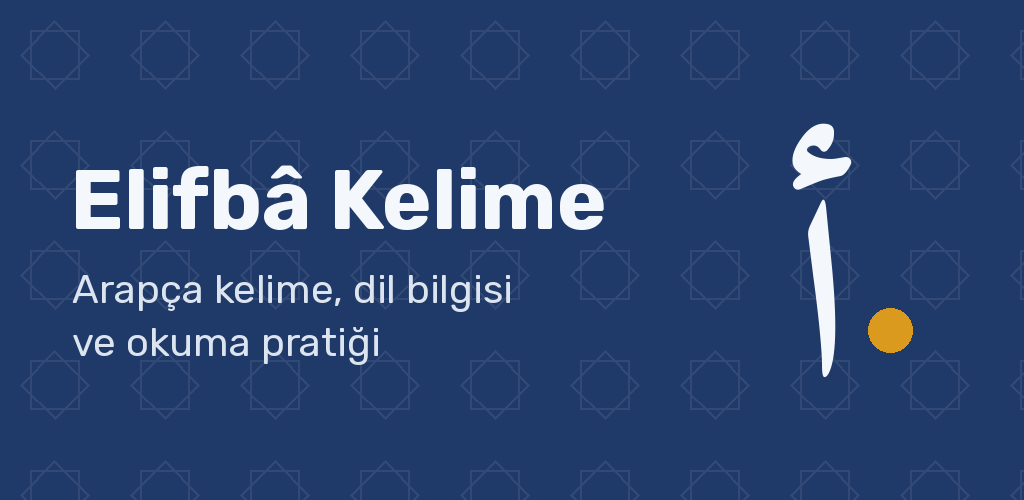
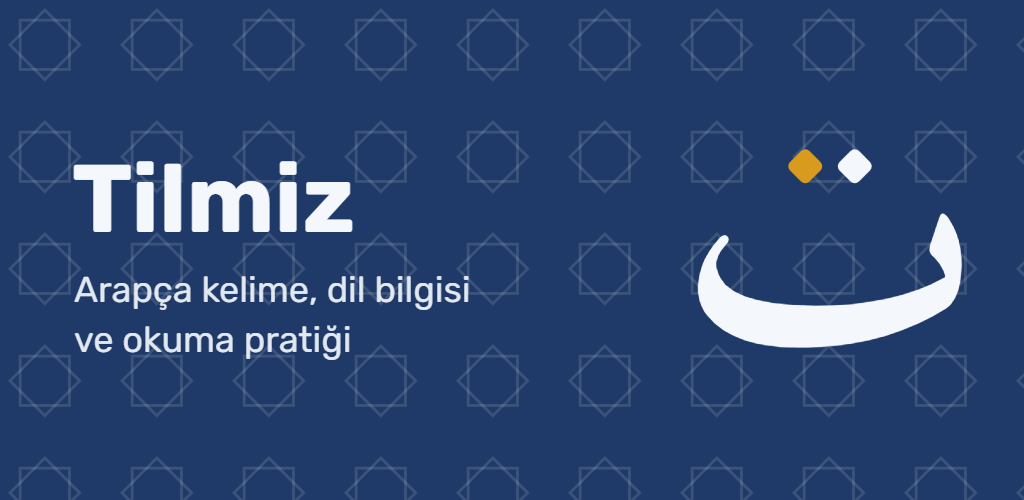
Ad: Tilmiz / Mihenk Labs; yeni simge ve mağaza görselleri
- app.config.json'dan gelen yer tutucularla ad tek yerden yönetilir.
- ت harfli yeni simgeler ve öne çıkan görsel (tools/assets ile üretildi).
- dist/root: mihenklabs.github.io kök sitesi ve assetlinks.json.
- GitHub Pages yayın iş akışı, güncel Play rehberi ve mağaza metinleri.

diff --git a/src/app.js b/src/app.js
@@ -251,7 +251,7 @@ function header() {
   const c = counts(); ensureDay();
   const limit = S.set.daily + S.day.bonus, st = streakNow(), started = Object.keys(S.p).length;
   return `
-  <div class="top"><div class="brand"><span class="ar" lang="ar">ك</span>Elifbâ Kelime</div><div class="streak">${st ? "🔥 " + st + " gün üst üste" : "Bugün ilk çalışmanı yap"}</div></div>
+  <div class="top"><div class="brand"><span class="ar" lang="ar">ت</span>{{APP_NAME}}</div><div class="streak">${st ? "🔥 " + st + " gün üst üste" : "Bugün ilk çalışmanı yap"}</div></div>
   <div class="stats">
     <a class="stat" href="#kelimelerim" data-list="known"><b>${fmt(c.known)}</b><span>iyi biliyorum</span></a>
     <a class="stat" href="#kelimelerim" data-list="learn"><b>${fmt(c.learn)}</b><span>öğreniyorum</span></a>
@@ -451,14 +451,15 @@ function settings() {
   <div class="set"><h3>Kelime havuzu</h3><p>${fmt(N)} kelime, sık kullanılandan seyreğe sıralı. Bütün kelimelerin Türkçesi elle yazıldı ya da tek tek kontrol edildi. Günlük dilde nadir geçenler “(seyrek kullanılır)” diye işaretli. Yine de hatalı gördüğün bir kelimeyi bildirebilir ya da Kelimelerim’de anlamını kendin düzeltebilirsin.</p>
     ${nflag ? `<p style="margin:10px 0 6px;color:var(--ink)">Bildirdiğin kelimeler (${nflag})</p><div class="flist">${Object.keys(S.flag).slice(0, 100).map(k => `<div class="frow"><span class="ar" lang="ar">${W[k][0]}</span><span class="ft">${esc(W[k][2])}</span>${fedit === +k ? `<input id="fIn" value="${esc(W[k][2])}" aria-label="Doğru anlam"><button class="btn primary sm" data-fs="${k}">Kaydet</button>` : `<button class="btn sm" data-fe="${k}">Düzelt</button><button class="btn sm" data-fu="${k}">Geri al</button>`}</div>`).join("")}</div>
     <button class="btn" id="unflag" style="margin-top:8px">Hepsini geri al</button>` : ""}</div>
-  ${dgs && tipItems.length ? `<div class="set support"><h3>Destek ol</h3><p>Elifbâ reklamsız ve ücretsiz. Beğendiysen küçük bir destekle geliştirilmesine katkıda bulunabilirsin. Destekler yalnızca teşekkür amaçlıdır, uygulamada hiçbir şeyi değiştirmez.${S.tips ? ` <b>Desteğin için teşekkürler! 🌙</b>` : ""}</p>
+  ${dgs && tipItems.length ? `<div class="set support"><h3>Destek ol</h3><p>{{APP_NAME}} reklamsız ve ücretsiz. Beğendiysen küçük bir destekle geliştirilmesine katkıda bulunabilirsin. Destekler yalnızca teşekkür amaçlıdır, uygulamada hiçbir şeyi değiştirmez.${S.tips ? ` <b>Desteğin için teşekkürler! 🌙</b>` : ""}</p>
     ${gate ? `<div class="gate"><p><b>Ebeveyn onayı:</b> Ödemeye geçmeden önce bir yetişkin şu soruyu cevaplasın.</p><p class="gq">${gate.a} × ${gate.b} = ?</p><div class="row"><input id="gIn" inputmode="numeric" aria-label="Cevap"><button class="btn primary sm" id="gOk">Onayla</button><button class="btn sm" id="gNo">Vazgeç</button></div></div>` : `<div class="tips">${tipItems.map(d => `<button class="btn tip" data-tip="${esc(d.itemId)}"><span>${esc(TIP_LABEL[d.itemId] || d.title)}</span><b>${esc(fmtPrice(d.price))}</b></button>`).join("")}</div>`}</div>` : ""}
   <div class="set"><h3>Yedekle ve geri yükle</h3><p>İlerlemenin bir kopyasını al. Telefon değiştirdiğinde ya da uygulamayı yeniden yüklediğinde bu yedekle kaldığın yerden devam edersin.</p>
     <div class="row"><button class="btn" id="bkSave">${IN_CLAUDE ? "Yedeği kopyala" : "Yedek dosyası indir"}</button><button class="btn" id="bkLoad">Yedekten yükle</button></div>
     <input type="file" id="bkFile" accept=".json,application/json,text/plain" hidden>
     <details class="bkp"><summary>Metin olarak yapıştırıp yükle</summary><textarea id="bkText" rows="3" placeholder="Yedek metnini buraya yapıştır" aria-label="Yedek metni"></textarea><div class="row"><button class="btn sm" id="bkApply">Yapıştırılanı yükle</button></div></details></div>
   <details class="set about"><summary><h3 style="display:inline">Hakkında, kaynaklar ve lisanslar</h3></summary>
-    <p><b>Elifbâ Kelime</b> Arapça kelime, dil bilgisi ve okuma çalışmaları için hazırlandı. Verilerin tamamı bu cihazda saklanır${IN_CLAUDE ? " (ve Claude hesabında eşitlenir)" : ""}; hiçbir kişisel veri toplanmaz.</p>
+    <p><b>{{APP_NAME}}</b> Arapça kelime, dil bilgisi ve okuma çalışmaları için hazırlandı. Verilerin tamamı bu cihazda saklanır${IN_CLAUDE ? " (ve Claude hesabında eşitlenir)" : ""}; hiçbir kişisel veri toplanmaz.</p>
+    <p>Geliştirici: {{DEV_NAME}}. Kaynak kodu (GPL-3.0-or-later): <a href="https://github.com/{{GITHUB_USER}}/{{REPO}}" target="_blank" rel="noopener">github.com/{{GITHUB_USER}}/{{REPO}}</a></p>
     <p>Kelime, çekim ve anlam verileri: Vikisözlük (Wiktionary) katkıcıları, kaikki.org üzerinden; lisans: CC BY-SA 4.0. Türkçe anlamlar bu veriler temel alınarak elle düzenlendi ve aynı lisansla paylaşılır.</p>
     <p>Kur’an metni, kök ve lemma bilgileri: Quranic Arabic Corpus (Kais Dukes, <a href="https://corpus.quran.com" target="_blank" rel="noopener">corpus.quran.com</a>) morfoloji verisi v0.4 ve furqan.co düzeltmeleri; lisans: GNU GPL.</p>
     <p>Kelime sıklığı: FrequencyWords (Hermit Dave), OpenSubtitles verisinden; lisans: CC BY-SA 4.0.</p>
@@ -478,7 +479,7 @@ function settings() {
   $("#bkSave").onclick = () => {
     const txt = JSON.stringify({ app: "elifba-kelime", v: 1, date: dayStr(), data: S });
     if (!IN_CLAUDE) {
-      try { const a = document.createElement("a"); a.href = URL.createObjectURL(new Blob([txt], { type: "application/json" })); a.download = "elifba-yedek-" + dayStr() + ".json"; document.body.appendChild(a); a.click(); setTimeout(() => { URL.revokeObjectURL(a.href); a.remove(); }, 1000); toast("Yedek dosyası indirildi."); return; } catch (e) {}
+      try { const a = document.createElement("a"); a.href = URL.createObjectURL(new Blob([txt], { type: "application/json" })); a.download = "tilmiz-yedek-" + dayStr() + ".json"; document.body.appendChild(a); a.click(); setTimeout(() => { URL.revokeObjectURL(a.href); a.remove(); }, 1000); toast("Yedek dosyası indirildi."); return; } catch (e) {}
     }
     const done = () => toast("Yedek panoya kopyalandı. Bir nota yapıştırıp sakla.");
     const fallback = () => { const t = $("#bkText"); t.value = txt; t.closest("details").open = true; t.select(); toast("Yedek metni aşağıda; kopyalayıp sakla."); };
@@ -487,7 +488,7 @@ function settings() {
   const restore = txt => {
     let o; try { o = JSON.parse(txt); } catch (e) { toast("Yedek okunamadı."); return; }
     const d = o && o.data ? o.data : o;
-    if (!d || typeof d !== "object" || typeof d.p !== "object") { toast("Bu bir Elifbâ yedeği değil."); return; }
+    if (!d || typeof d !== "object" || typeof d.p !== "object") { toast("Bu bir {{APP_NAME}} yedeği değil."); return; }
     if (!confirm("Yedek, bu cihazdaki ilerlemenin yerine geçecek. Devam edilsin mi?")) return;
     S = normalize(d); applyCM(); save(); cur = null; recent = []; hist = [];
     toast("Yedek yüklendi: " + fmt(Object.keys(S.p).length) + " kelime."); settings();

diff --git a/tools/assets/generator.html b/tools/assets/generator.html
@@ -1,0 +1,101 @@
+<!DOCTYPE html>
+<html lang="tr"><head><meta charset="utf-8"><title>Görsel üretici</title>
+<style>
+@font-face { font-family: "Amiri"; font-weight: 400; src: url(fonts/amiri-arabic-400-normal.woff2) format("woff2"); unicode-range: U+0600-06FF, U+FB50-FDFF, U+FE70-FEFC; }
+@font-face { font-family: "Amiri"; font-weight: 700; src: url(fonts/amiri-arabic-700-normal.woff2) format("woff2"); unicode-range: U+0600-06FF, U+FB50-FDFF, U+FE70-FEFC; }
+@font-face { font-family: "Rubik"; font-weight: 400; src: url(fonts/rubik-latin-400-normal.woff2) format("woff2"); }
+@font-face { font-family: "Rubik"; font-weight: 400; src: url(fonts/rubik-latin-ext-400-normal.woff2) format("woff2"); unicode-range: U+0100-024F; }
+@font-face { font-family: "Rubik"; font-weight: 700; src: url(fonts/rubik-latin-700-normal.woff2) format("woff2"); }
+@font-face { font-family: "Rubik"; font-weight: 700; src: url(fonts/rubik-latin-ext-700-normal.woff2) format("woff2"); unicode-range: U+0100-024F; }
+body { font-family: system-ui; background: #ccc; margin: 16px; }
+canvas { margin: 8px; vertical-align: top; box-shadow: 0 1px 4px #0004; }
+</style></head>
+<body>
+<button id="save">Hepsini kaydet</button> <span id="st"></span>
+<div id="out"></div>
+<script>
+const C = { bg: "#1F3A68", ink: "#F4F7FB", saffron: "#D89B1E", line: "rgba(244,247,251,.13)" };
+let cfg;
+
+// 8 köşeli yıldız deseni (iç içe iki kare)
+function pattern(ctx, w, h, step) {
+  ctx.save(); ctx.strokeStyle = C.line; ctx.lineWidth = Math.max(1.5, step / 40);
+  for (let y = step / 2 - step * 0.1; y < h + step; y += step) for (let x = step / 2 - step * 0.1; x < w + step; x += step) {
+    const s = step * 0.22;
+    ctx.strokeRect(x - s, y - s, 2 * s, 2 * s);
+    ctx.save(); ctx.translate(x, y); ctx.rotate(Math.PI / 4); ctx.strokeRect(-s, -s, 2 * s, 2 * s); ctx.restore();
+  }
+  ctx.restore();
+}
+function roundRect(ctx, x, y, w, h, r) { ctx.beginPath(); ctx.moveTo(x + r, y); ctx.arcTo(x + w, y, x + w, y + h, r); ctx.arcTo(x + w, y + h, x, y + h, r); ctx.arcTo(x, y + h, x, y, r); ctx.arcTo(x, y, x + w, y, r); ctx.closePath(); }
+
+// Noktasız ت gövdesi (ٮ) + iki nokta: biri beyaz, biri safran
+function teh(ctx, cx, cy, size) {
+  ctx.save();
+  ctx.fillStyle = C.ink; ctx.font = `700 ${size}px Amiri`; ctx.textAlign = "center"; ctx.textBaseline = "alphabetic";
+  const m = ctx.measureText("ٮ");
+  const top = m.actualBoundingBoxAscent, bot = m.actualBoundingBoxDescent;
+  // gövdeyi dikeyde ortala (noktalarla birlikte)
+  const dotR = size * 0.052, gap = size * 0.07;
+  const totalH = top + bot + gap + dotR * 2;
+  const base = cy + totalH / 2 - bot;
+  ctx.fillText("ٮ", cx, base);
+  const dy = base - top - gap - dotR;
+  const dx = size * 0.075;
+  // nesih noktası gibi hafif yuvarlatılmış eşkenar dörtgen
+  const dot = (x, col) => {
+    ctx.fillStyle = col; ctx.save(); ctx.translate(x, dy); ctx.rotate(Math.PI / 4);
+    roundRect(ctx, -dotR * 0.8, -dotR * 0.8, dotR * 1.6, dotR * 1.6, dotR * 0.35); ctx.fill(); ctx.restore();
+  };
+  dot(cx + dx, C.ink); dot(cx - dx, C.saffron);
+  ctx.restore();
+}
+
+function icon(size, { rounded, safe }) {
+  const cv = document.createElement("canvas"); cv.width = cv.height = size;
+  const ctx = cv.getContext("2d");
+  if (rounded) { roundRect(ctx, 0, 0, size, size, size * 0.19); ctx.clip(); }
+  ctx.fillStyle = C.bg; ctx.fillRect(0, 0, size, size);
+  pattern(ctx, size, size, size / 4);
+  teh(ctx, size / 2, size / 2, size * (safe ? 0.62 : 0.8));
+  return cv;
+}
+
+function feature() {
+  const w = 1024, h = 500, cv = document.createElement("canvas"); cv.width = w; cv.height = h;
+  const ctx = cv.getContext("2d");
+  ctx.fillStyle = C.bg; ctx.fillRect(0, 0, w, h);
+  pattern(ctx, w, h, 112);
+  ctx.fillStyle = C.ink; ctx.textBaseline = "alphabetic";
+  ctx.font = "700 96px Rubik"; ctx.fillText(cfg.name, 72, 232);
+  ctx.font = "400 36px Rubik"; ctx.globalAlpha = .92;
+  ctx.fillText("Arapça kelime, dil bilgisi", 74, 302);
+  ctx.fillText("ve okuma pratiği", 74, 352);
+  ctx.globalAlpha = 1;
+  teh(ctx, 830, 250, 330);
+  return cv;
+}
+
+async function make() {
+  cfg = await (await fetch("app.config.json")).json();
+  await Promise.all(["700 100px Amiri", "700 40px Rubik", "400 40px Rubik"].map(f => document.fonts.load(f, "ٮ Tilmiz ğış")));
+  const list = {
+    "icon-512": icon(512, { rounded: true }),
+    "icon-192": icon(192, { rounded: true }),
+    "maskable-512": icon(512, { safe: true }),
+    "play-icon-512": icon(512, {}),
+    "feature-graphic": feature(),
+  };
+  const out = document.getElementById("out"); out.innerHTML = "";
+  for (const [k, cv] of Object.entries(list)) { cv.title = k; out.appendChild(cv); }
+  return list;
+}
+async function saveAll(list) {
+  for (const [k, cv] of Object.entries(list)) await fetch("save?name=" + k, { method: "POST", body: cv.toDataURL("image/png") });
+  document.getElementById("st").textContent = "kaydedildi";
+}
+let L;
+make().then(l => { L = l; if (location.search.includes("auto=1")) saveAll(L); });
+document.getElementById("save").onclick = () => saveAll(L);
+</script>
+</body></html>

diff --git a/src/pwa/privacy.html b/src/pwa/privacy.html
@@ -1,10 +1,10 @@
 <!DOCTYPE html><html lang="tr"><head><meta charset="utf-8"><meta name="viewport" content="width=device-width, initial-scale=1">
-<title>Elifbâ Kelime – Gizlilik Politikası</title>
+<title>{{APP_NAME}} – Gizlilik Politikası</title>
 <style>body{font-family:system-ui,-apple-system,"Segoe UI",sans-serif;max-width:680px;margin:0 auto;padding:24px 18px;line-height:1.6;color:#18212B}h1{font-size:1.5rem}h2{font-size:1.1rem;margin-top:24px}</style></head>
-<body><h1>Elifbâ Kelime – Gizlilik Politikası</h1>
+<body><h1>{{APP_NAME}} – Gizlilik Politikası</h1>
 <p>Son güncelleme: 17 Kasım 2026</p>
 <h2>Toplanan veriler</h2>
-<p>Elifbâ Kelime hiçbir kişisel veri toplamaz, saklamaz ya da üçüncü taraflarla paylaşmaz. Hesap açma, giriş yapma veya kişisel bilgi girme gerekmez.</p>
+<p>{{APP_NAME}} hiçbir kişisel veri toplamaz, saklamaz ya da üçüncü taraflarla paylaşmaz. Hesap açma, giriş yapma veya kişisel bilgi girme gerekmez.</p>
 <h2>Cihazda saklanan veriler ve yedekler</h2>
 <p>Öğrenme ilerlemen (çalıştığın kelimeler, ayarların, istatistiklerin) yalnızca kendi cihazında, tarayıcı depolama alanında saklanır. Bu veriler bize ya da başka bir sunucuya gönderilmez. Uygulamayı sildiğinde ya da uygulama verilerini temizlediğinde bu veriler silinir. “Yedek al” özelliğiyle oluşturduğun yedek dosyası yalnızca senin cihazına kaydedilir.</p>
 <h2>Ödemeler</h2>
@@ -12,7 +12,7 @@
 <h2>Sesli okuma ve yazı tipleri</h2>
 <p>Telaffuz, cihazının kendi metin okuma motoruyla yapılır. Yazı tipleri uygulamanın içinde gelir; uygulama açılırken üçüncü taraf sunuculara istek gönderilmez.</p>
 <h2>Çocuklar</h2>
-<p>Elifbâ Kelime 7 yaş ve üzeri kullanıcılar için uygundur. Uygulama çocuklardan veya herhangi bir kullanıcıdan kişisel veri toplamaz, reklam göstermez ve üçüncü taraf takip ya da reklam yazılımı içermez. Çocuklara uygun olmayan kelimeler uygulamada gösterilmez.</p>
+<p>{{APP_NAME}} 7 yaş ve üzeri kullanıcılar için uygundur. Uygulama çocuklardan veya herhangi bir kullanıcıdan kişisel veri toplamaz, reklam göstermez ve üçüncü taraf takip ya da reklam yazılımı içermez. Çocuklara uygun olmayan kelimeler uygulamada gösterilmez.</p>
 <p>İsteğe bağlı destek paketleri satın alınmadan önce bir yetişkinin çözmesi gereken bir onay sorusu (ebeveyn onayı) gösterilir. Ödemeler Google Play üzerinden yapılır ve Google Play’in aile ve ebeveyn denetimi ayarlarına tabidir.</p>
 <h2>İletişim</h2>
 <p>Sorular için: [E-POSTA ADRESİNİ BURAYA YAZ]</p>

diff --git a/src/index.html b/src/index.html
@@ -3,7 +3,7 @@
 <head>
 <meta charset="utf-8">
 <meta name="viewport" content="width=device-width, initial-scale=1, viewport-fit=cover">
-<title>Elifbâ Kelime – Arapça kelime öğren</title>
+<title>{{APP_NAME}} – Arapça kelime öğren</title>
 <link rel="preconnect" href="https://fonts.googleapis.com">
 <link rel="preconnect" href="https://fonts.gstatic.com" crossorigin>
 <link href="https://fonts.googleapis.com/css2?family=Amiri:wght@400;700&family=Rubik:wght@400;500;700&display=swap" rel="stylesheet">

diff --git a/docs/REHBER-PlayStore.md b/docs/REHBER-PlayStore.md
@@ -1,65 +1,64 @@
-# Elifbâ Kelime'yi Google Play'e yükleme rehberi
+# Tilmiz'i Google Play'e yükleme rehberi
 
-Bu paket uygulamanın Play Store sürümünü içerir. Uygulama bir web uygulaması (PWA) olarak barındırılır, Android'e "Trusted Web Activity" (TWA) olarak paketlenir. Destek paketleri Google Play Billing ile çalışır.
+Uygulama bir web uygulaması (PWA) olarak GitHub Pages'te barındırılır ve Android'e "Trusted Web Activity" (TWA) olarak paketlenir. Destek paketleri Google Play Billing ile çalışır.
 
-## Paketin içeriği
-- `site/` → Barındırılacak dosyalar: `index.html` (uygulama), `LICENSE` (GPLv3), `README.md`, `manifest.webmanifest`, `sw.js` (çevrimdışı çalışma), `icons/`, `privacy.html` (gizlilik politikası), `.well-known/assetlinks.json` (doldurulacak şablon).
-- `store/` → Mağaza görselleri: 512×512 uygulama simgesi ve 1024×500 öne çıkan görsel.
+Adlar (`app.config.json`): uygulama **Tilmiz**, geliştirici **Mihenk Labs**, GitHub kullanıcı adı **mihenklabs**, paket kimliği **io.github.mihenklabs.tilmiz** (paket kimliği sonradan değiştirilemez).
 
-## 1. Siteyi yayınla (GitHub Pages, ücretsiz)
-TWA'nın çalışması için `assetlinks.json` dosyası alan adının **kök dizininde** olmalı. Bu yüzden siteyi kendi kök alan adına koy:
-1. github.com'da ücretsiz hesap aç.
-2. Adı tam olarak `KULLANICIADIN.github.io` olan yeni bir **public** depo oluştur.
-3. `site/` klasörünün **içindekileri** (`.well-known` ve `.nojekyll` dahil) deponun kök dizinine yükle.
-4. Depo → Settings → Pages → Source: "Deploy from a branch", Branch: `main` / root → Kaydet.
-5. Birkaç dakika sonra `https://KULLANICIADIN.github.io` adresinde uygulamayı açıp dene.
-6. `privacy.html` içindeki `[E-POSTA ADRESİNİ BURAYA YAZ]` kısmını kendi e-postanla değiştir.
+## Derleme çıktıları (`npm run build`)
+- `dist/site/` → uygulama: `https://mihenklabs.github.io/tilmiz/`
+- `dist/root/` → geliştirici kök sitesi: `https://mihenklabs.github.io/` (tanıtım sayfası + `.well-known/assetlinks.json`). TWA doğrulaması için `assetlinks.json` alan adının **kökünde** olmalı; ileride başka uygulamalar da aynı dosyaya eklenir.
+- `store/` → 512×512 Play simgesi ve 1024×500 öne çıkan görsel (`tools/assets/` ile yeniden üretilebilir).
 
-(Alternatif: Netlify veya Cloudflare Pages da olur; yine site alan adının kökünde durmalı.)
+## 1. GitHub
+1. github.com'da **mihenklabs** kullanıcı adıyla hesap aç (ad müsaitken hemen al).
+2. İki **public** depo:
+   - `tilmiz`: bu proje (kaynak kod). Settings → Pages → Source: **GitHub Actions**. `.github/workflows/pages.yml` her `main` gönderiminde testleri çalıştırıp `dist/site`'ı yayınlar.
+   - `mihenklabs.github.io`: `dist/root/` içeriği (`.nojekyll` ve `.well-known` dahil). Settings → Pages → Branch: `main` / root.
+3. Birkaç dakika sonra `https://mihenklabs.github.io/tilmiz/` adresinde uygulamayı aç ve dene.
 
-## 2. Android paketini oluştur (PWABuilder)
-1. pwabuilder.com'a git, site adresini yaz, "Start" de.
-2. "Package for stores" → **Android** → "Generate Package" → "Options".
-3. Ayarlar:
-   - **Package ID**: ör. `io.github.kullaniciadi.elifba` (sonradan değiştirilemez).
-   - **App name**: Elifbâ Kelime, **Short name**: Elifbâ.
-   - **Play Billing**: **Açık** (destek paketleri için şart).
-   - **Signing key**: "Create new" (anahtarı PWABuilder üretir).
-4. İndir. Zip içinde `.aab` dosyası, imza anahtarı (`signing.keystore`), şifreleri içeren bir not ve `assetlinks.json` gelir.
-5. **İmza anahtarını ve şifreleri güvenli bir yerde sakla.** Kaybolursa uygulamayı güncelleyemezsin.
+## 2. Android paketi (PWABuilder)
+1. pwabuilder.com → adres: `https://mihenklabs.github.io/tilmiz/` → Start.
+2. Package for stores → **Android** → Options:
+   - **Package ID**: `io.github.mihenklabs.tilmiz`
+   - **App name**: Tilmiz, **Short name**: Tilmiz
+   - **Play Billing**: Açık (destek paketleri için şart)
+   - **Signing key**: Create new
+3. İndir: `.aab`, imza anahtarı (`signing.keystore`), şifre notu ve `assetlinks.json` gelir.
+4. **İmza anahtarını ve şifreleri depoya koyma**; güvenli bir yerde (ör. parola yöneticisi + şifreli yedek) sakla. Kaybolursa uygulama güncellenemez. (`.gitignore` `*.keystore`, `signing*` dosyalarını zaten dışarıda tutar.)
 
-## 3. assetlinks.json'u güncelle
-PWABuilder'ın verdiği `assetlinks.json` içeriğini sitedeki `.well-known/assetlinks.json` dosyasının yerine koy. Play Console'da uygulama oluşturduktan sonra **Kurulum → Uygulama imzalama** sayfasındaki "Uygulama imzalama anahtarı sertifikası" SHA-256 parmak izini de aynı dosyadaki listeye ekle. Bu yapılmazsa uygulama üstte adres çubuğuyla açılır.
+## 3. assetlinks.json
+`src/pwa/.well-known/assetlinks.json` içindeki iki parmak izi yerini doldur: PWABuilder'ın verdiği SHA-256 ve Play Console → Kurulum → Uygulama imzalama → "Uygulama imzalama anahtarı sertifikası" SHA-256. Sonra `npm run build` ve `dist/root/` içeriğini `mihenklabs.github.io` deposuna gönder. Bu yapılmazsa uygulama üstte adres çubuğuyla açılır.
 
 ## 4. Google Play Console
-1. play.google.com/console → geliştirici hesabı aç (tek seferlik 25 USD, kimlik doğrulaması istenir). Kişisel hesaplarda, uygulamayı yayınlamadan önce kapalı testte belirli sayıda testçiyle bir süre test etme şartı olabilir; Console'da güncel şartı kontrol et.
-2. "Uygulama oluştur": ad Elifbâ Kelime, varsayılan dil Türkçe, Uygulama, Ücretsiz.
-3. **Mağaza girişi**: kısa ve tam açıklama, `store/play-icon-512.png`, `store/feature-graphic-1024x500.png`, telefondan en az 2 ekran görüntüsü.
-4. **Uygulama içeriği** formları:
-   - Gizlilik politikası URL'si: `https://KULLANICIADIN.github.io/privacy.html`
+1. play.google.com/console → geliştirici hesabı (tek seferlik 25 USD, kimlik doğrulama). Geliştirici adı: **Mihenk Labs**.
+2. Uygulama oluştur: ad **Tilmiz – Arapça öğren**, varsayılan dil Türkçe, Uygulama, Ücretsiz.
+3. **Mağaza girişi**: kısa ve tam açıklama (`docs/magaza-metinleri.md`), `store/play-icon-512.png`, `store/feature-graphic-1024x500.png`, telefondan en az 2 ekran görüntüsü.
+4. **Uygulama içeriği**:
+   - Gizlilik politikası URL'si: `https://mihenklabs.github.io/tilmiz/privacy.html`
    - Reklam: Yok.
    - Veri güvenliği: Veri toplanmıyor, paylaşılmıyor (ödeme Google tarafından işlenir).
-   - Hedef kitle ve içerik: yaş grupları olarak **6–8, 9–12, 13–15, 16–17 ve 18+** seç (7+ için en yakın seçim). Çocukları kapsadığı için uygulama **Aileler Politikası**'na tabi olur. Hazırlananlar: reklam ve takip yazılımı yok, veri toplanmıyor, çocuklara uygun olmayan kelimeler gizli, satın almalardan önce ebeveyn onayı sorusu var, gizlilik politikasında çocuklar bölümü var.
-   - "Uygulamanız çocukların ilgisini çekebilir mi?" gibi sorularda dürüstçe "Evet" de.
-   - İçerik derecelendirmesi anketi: Eğitim uygulaması, şiddet vb. yok.
-5. **Para kazanma → Ürünler → Uygulama içi ürünler** (önce bir test sürümü yüklemen gerekebilir):
-   - Ürün kimliği `kahve_30` → ad "Geliştiriciye bir kahve ısmarla", fiyat 30 TL → Etkinleştir.
-   - Ürün kimliği `destek_100` → ad "Projeye destek ol", fiyat 100 TL → Etkinleştir.
-   - Ürün kimliği `destek_250` → ad "Cömert destekçi ol", fiyat 250 TL → Etkinleştir.
-   - Kimlikler bire bir böyle olmalı; uygulama bu kimlikleri arar.
-6. Ödeme profili oluştur (Para kazanma kurulumu), banka hesabını ekle.
+   - Hedef kitle: **6–8, 9–12, 13–15, 16–17 ve 18+** → Aileler Politikası. Hazır olanlar: reklam/takip yazılımı yok, veri toplanmıyor, uygunsuz kelimeler gizli, satın almadan önce ebeveyn onayı sorusu, gizlilik politikasında çocuklar bölümü, yazı tipleri uygulama içinde (üçüncü taraf isteği yok).
+   - "Uygulamanız çocukların ilgisini çekebilir mi?" → dürüstçe "Evet".
+   - İçerik derecelendirmesi: Eğitim; şiddet vb. yok.
+5. **Para kazanma → Uygulama içi ürünler** (önce bir test sürümü yüklemek gerekebilir):
+   - `kahve_30` → "Geliştiriciye bir kahve ısmarla", 30 TL
+   - `destek_100` → "Projeye destek ol", 100 TL
+   - `destek_250` → "Cömert destekçi ol", 250 TL
+   - Kimlikler bire bir böyle olmalı.
+6. Ödeme profili ve banka hesabı.
 
 ## 5. Test ve yayın
-0. **Kapalı test şartı:** Yeni kişisel hesaplarda yayından önce en az **12 testçinin 14 gün kesintisiz** katıldığı bir kapalı test gerekir. Testçilerin uygulamayı gerçekten kullanması gerekir.
-1. **Test → Dahili test** kanalına `.aab` dosyasını yükle, kendini testçi ekle, bağlantıdan uygulamayı yükle. Ardından aynı dosyayla **Kapalı test** kanalını aç ve 12 testçiyi e-posta listesiyle ekle.
-2. **Kurulum → Lisans testi** bölümüne kendi Gmail adresini ekle: test satın almaları ücretsiz yapılır.
-3. Uygulamada Ayarlar → "Destek ol" kartı görünmeli. Bir paket alıp "Teşekkürler" mesajını gör.
-4. Her şey çalışınca sürümü **Üretim** kanalına taşı ve incelemeye gönder.
+0. **Kapalı test şartı:** Yeni kişisel hesaplarda en az **12 testçi, 14 gün kesintisiz** kapalı test.
+1. Dahili test kanalına `.aab` yükle, kendini ekle; sonra aynı dosyayla kapalı testi aç, 12 testçiyi ekle.
+2. Kurulum → Lisans testi: kendi Gmail adresin → test satın almaları ücretsiz.
+3. Uygulamada Ayarlar → "Destek ol" kartı görünmeli; bir paket alıp "Teşekkürler" mesajını gör.
+4. Her şey çalışınca Üretim kanalına taşı ve incelemeye gönder.
 
 ## Bilmen gerekenler
-- Play sürümünde ilerleme yalnızca o telefonda saklanır; Claude'daki sürümle eşitlenmez.
-- Telaffuz telefonun Arapça sesiyle yapılır (Claude sesi yalnızca claude.ai'de).
-- Uygulamayı güncellemek için `site/index.html` dosyasını değiştirip yeniden yüklemen yeterli; çoğu güncelleme için yeni `.aab` gerekmez. `sw.js` içindeki `elifba-v1` sürüm adını artırırsan telefonlar yeni sürümü daha hızlı alır.
-- GitHub deposunu herkese açık tut: `LICENSE` (GPLv3) ve `README.md` dosyaları depoda kalsın; GPL kaynak kodun erişilebilir olmasını ister.
-- Vergi: Google'dan gelen kazanç için Türkiye'de mobil uygulama geliştiriciliği istisnası (GVK mükerrer 20/B) var; bunun için ayrı bir banka hesabı gerekiyor. Başlamadan önce bir mali müşavire danış (memursan özellikle).
-- Lisanslar: Kelime verisi Vikisözlük'ten (CC BY-SA 4.0), Kur'an metni ve kök bilgisi Quranic Arabic Corpus'tan (GNU GPL), sıklık listesi FrequencyWords'ten (CC BY-SA 4.0). Atıflar uygulamada Ayarlar → "Hakkında, kaynaklar ve lisanslar" bölümünde. GPL ve CC BY-SA, verilerin aynı lisansla paylaşılmasını isteyebilir; ticari kullanım veya lisans konusunda emin olmak için bir uzmana danışmanı öneririm.
+- Güncelleme: `main`'e gönderdiğinde site yeniden yayınlanır; çoğu güncelleme için yeni `.aab` gerekmez. Service worker sürümü derlemede otomatik değişir; telefonlar yeni sürümü bir sonraki açılışta alır.
+- Play sürümünde ilerleme yalnızca o telefonda saklanır (yedek dosyasıyla taşınabilir); claude.ai sürümüyle eşitlenmez.
+- Telaffuz telefonun Arapça sesiyle yapılır.
+- GPL kaynak kodun erişilebilir olmasını ister: `tilmiz` deposu public kalsın.
+- Vergi: GVK mükerrer 20/B istisnası (ayrı banka hesabı gerekir) — mali müşavire danış. İşveren sözleşmeni (yan faaliyet/fikri haklar maddeleri) kontrol et.
+- Lisanslar: Vikisözlük (CC BY-SA 4.0), Quranic Arabic Corpus (GNU GPL), FrequencyWords (CC BY-SA 4.0), Amiri/Rubik (OFL). Atıflar uygulamada Ayarlar → "Hakkında, kaynaklar ve lisanslar".
+- Marka: "Tilmiz" ve "Mihenk Labs" için TÜRKPATENT'te 9. ve 41. sınıflarda arama yap (bu kontrol edilemedi).

diff --git a/docs/magaza-metinleri.md b/docs/magaza-metinleri.md
@@ -1,0 +1,38 @@
+# Play mağaza metinleri (Türkçe)
+
+## Uygulama adı (en çok 30 karakter)
+Tilmiz – Arapça öğren
+
+## Kısa açıklama (en çok 80 karakter)
+Ücretsiz ve reklamsız Arapça: kelime, dil bilgisi, ayet ve hadis okuma pratiği
+
+## Tam açıklama
+Tilmiz, Türkçe konuşanlar için hazırlanmış ücretsiz ve reklamsız bir Arapça öğrenme uygulamasıdır. Arapçada "tilmîz" öğrenci demektir.
+
+KELİME ÇALIŞMASI
+• Sık kullanılandan seyreğe sıralı 11.000'den fazla kelime; Türkçe anlamların hepsi elle yazıldı ya da tek tek kontrol edildi.
+• Aralıklı tekrar: bilemediğin kelimeler sık, bildiklerin seyrek sorulur.
+• Arapça → Türkçe, Türkçe → Arapça ve dinleme soruları.
+• Kök aileleri, çoğul ve muzari biçimleri, Türkçeye geçmiş kelimeler.
+
+PRATİK
+• Elifbâ: Arap harfleri, harekeler ve okuma alıştırmaları.
+• A1'den C2'ye 26 dil bilgisi dersi; her derste adım adım anlatım ve 8 soruluk alıştırma.
+• Dil bilgisi ve cümle alıştırmalarında yalnızca öğrendiğin kelimeler kullanılır.
+• Fiil çekimi alıştırmaları ve tam çekim tabloları.
+• Harf dizme, üçlü çeviri (Arapça–Türkçe–İngilizce).
+• 71 ayet ve hadis kelime kelime anlamlarıyla, 12 günlük diyalog.
+
+GELİŞİM
+• Seviyen (A1–C2), film altyazılarının ve Kur'an'ın ne kadarını anladığın.
+• Günlük hedef, rozetler, 30 günlük grafik, seviye tespit sınavı ve "Ne çalışayım?" önerisi.
+
+GİZLİLİK
+• Reklam yok, abonelik yok, hesap açmak gerekmez.
+• Hiçbir kişisel veri toplanmaz; ilerlemen yalnızca telefonunda saklanır, istersen yedek dosyası alırsın.
+• İnternetsiz çalışır.
+
+Uygulama 7 yaş ve üzeri için uygundur. İsteğe bağlı destek paketleriyle geliştirmeye katkıda bulunabilirsin; satın almadan önce ebeveyn onayı istenir.
+
+Açık kaynak (GPL-3.0). Veri kaynakları: Vikisözlük (CC BY-SA 4.0), Quranic Arabic Corpus (GNU GPL, corpus.quran.com), FrequencyWords (CC BY-SA 4.0).
+Geliştirici: Mihenk Labs

diff --git a/README.md b/README.md
@@ -1,4 +1,4 @@
-# Elifbâ Kelime
+# Tilmiz
 
 Türkçe konuşanlar için ücretsiz, reklamsız Arapça öğrenme uygulaması: aralıklı tekrarla 11.719 kelime, dil bilgisi dersleri, fiil çekimi, ayet ve hadisler kelime kelime, günlük diyaloglar.
 

diff --git a/src/pwa/README.md b/src/pwa/README.md
@@ -1,4 +1,4 @@
-# Elifbâ Kelime
+# {{APP_NAME}}
 
 Arapça kelime, dil bilgisi, ayet ve hadis okuma pratiği için ücretsiz, reklamsız bir uygulama.
 
